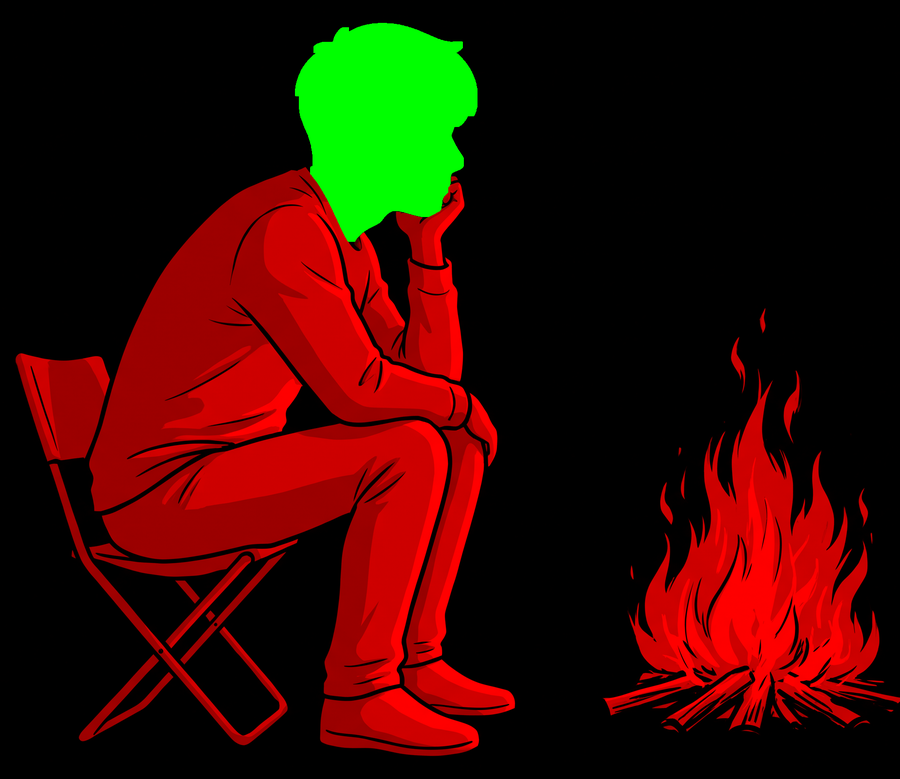
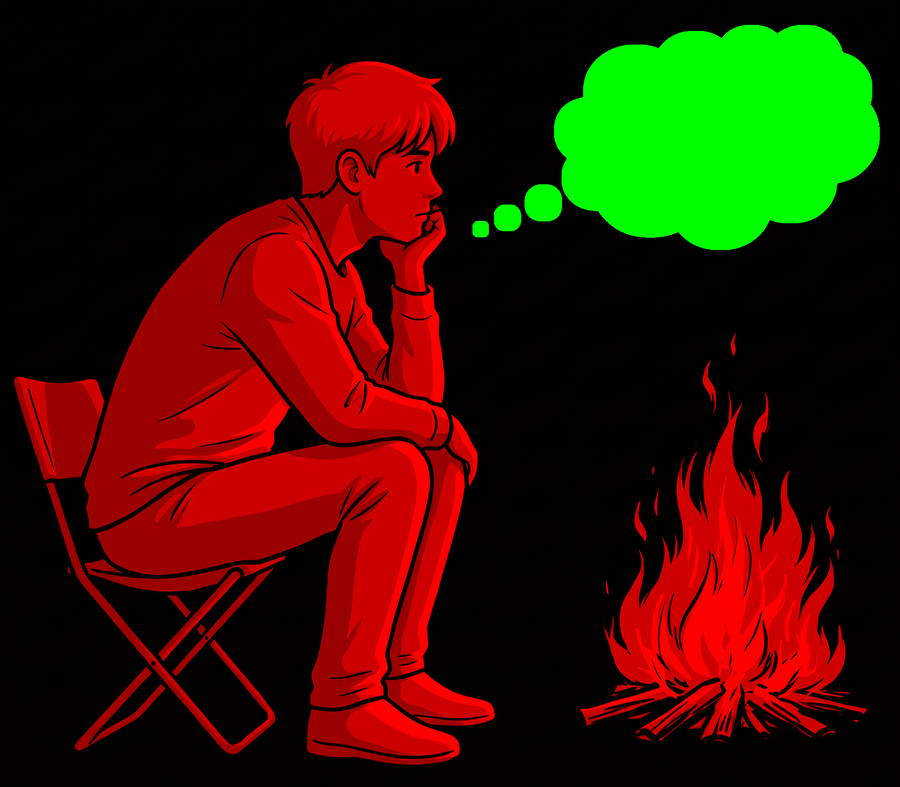
day-261117 짠하다 빼고, 멍때리다 빈 곳을 불 보며 떠오른 생각 풍선으로

diff --git a/day-261117/main.js b/day-261117/main.js
@@ -1,11 +1,10 @@
-const VER = 8;
+const VER = 10;
 const SCENES = [
   { key: 'siwon', word: '시원하다', pron: 'si·won·ha·da', pos: 'adj.', hole: '국밥 위로 오르는 뜨거운 김', en: ['cool', 'refreshing', 'relieved', 'satisfying', 'clear'], ex: '뜨거운 국물을 들이켜고, “아, 시원하다.”' },
   { key: 'jeong', word: '정', pron: 'jeong', pos: 'n.', hole: '그릇 위로 수북이 더 퍼 준 밥', en: ['affection', 'attachment', 'bond', 'warmth', 'love'], ex: '“더 먹어, 더.”' },
   { key: 'nunchi', word: '눈치', pron: 'nun·chi', pos: 'n.', hole: '상 위로 오가는 시선', en: ['tact', 'sense', 'awareness', 'social cue', 'reading the room'], ex: '말 안 해도 눈치로 알지.' },
   { key: 'dapdap', fill: true, word: '답답하다', pron: 'dap·dap·a·da', pos: 'adj.', hole: '손을 얹은 가슴', en: ['stuffy', 'frustrated', 'suffocating', 'stifled', 'heavy'], ex: '말이 안 통해서 답답해.' },
-  { key: 'jjan', word: '짠하다', pron: 'jjan·ha·da', pos: 'adj.', hole: '막차 창가에 꾸벅 떨군 머리', en: ['pitiful', 'touching', 'poignant', 'sorry for', 'heartrending'], ex: '얼마나 피곤했으면… 짠하다.' },
-  { key: 'meong', word: '멍때리다', pron: 'meong·ttae·ri·da', pos: 'v.', hole: '불 앞에 앉은 사람의 머릿속', en: ['zone out', 'space out', 'daydream', 'stare blankly', 'blank'], ex: '아무 생각 없이 불만 봤어.' },
+  { key: 'meong', word: '멍때리다', pron: 'meong·ttae·ri·da', pos: 'v.', hole: '불을 보며 떠오른 생각 풍선', en: ['zone out', 'space out', 'daydream', 'stare blankly', 'blank'], ex: '아무 생각 없이 불만 봤어.' },
 ];
 
 const cv = document.getElementById('c'), ctx = cv.getContext('2d');
@@ -41,17 +40,10 @@ const WARP = {
     const cx = m.w / 2 + (x - m.w / 2) * sq;
     return [m.hc[0] + (cx - m.hc[0]) / k, m.hc[1] + (y - m.hc[1]) / k];
   },
-  jjan: (x, y, t, w, m) => {
-    const px = m.hb.x0 + (m.hb.x1 - m.hb.x0) * .65, py = m.hb.y1, p = t % 3.6;
-    const nod = p < 2.8 ? smooth(p / 2.8) : 1 - smooth((p - 2.8) / .25);
-    const a = -.35 * nod * w, c = Math.cos(a), s = Math.sin(a), dx = x - px, dy = y - py;
-    return [px + dx * c - dy * s, py + dx * s + dy * c];
-  },
   meong: (x, y, t, w, m) => {
-    const px = (m.hb.x0 + m.hb.x1) / 2, py = m.hb.y1, a = Math.sin(t * .7) * .06 * w, c = Math.cos(a), s = Math.sin(a), dx = x - px, dy = y - py;
-    let X = px + dx * c - dy * s, Y = py + dx * s + dy * c;
-    if (x > m.w * .66 && y > m.h * .38 && y < m.h * .93) {
-      const up = clamp((m.h * .93 - y) / (m.h * .5), 0, 1);
+    let X = x, Y = y - Math.sin(t * 1.3) * 7 * w - Math.sin(t * 2.1 + x * .02) * 2 * w;
+    if (x > m.w * .63 && y > m.h * .42 && y < m.h * .95) {
+      const up = clamp((m.h * .95 - y) / (m.h * .5), 0, 1);
       X += Math.sin(y * .06 + t * 9) * 7 * up + Math.sin(y * .13 - t * 13) * 3 * up;
       Y += (Math.sin(t * 11 + x * .05) * .5 + .5) * 9 * up;
     }

diff --git a/index.html b/index.html
@@ -444,7 +444,7 @@
     <div class="card-info">
       <div class="card-tag">day 261117 · untranslatable</div>
       <div class="card-title">번역불가</div>
-      <div class="card-concept">시원하다·정·눈치·답답하다·짠하다·멍때리다의 장면을 영어 번역어로만 아스키 그림처럼 그리면, 꼭 필요한 자리만 비고 그 빈 곳은 한국어로만 채워진다</div>
+      <div class="card-concept">시원하다·정·눈치·답답하다·멍때리다의 장면을 영어 번역어로만 아스키 그림처럼 그리면, 꼭 필요한 자리만 비고 그 빈 곳은 한국어로만 채워진다</div>
       <div class="card-bottom">
         <span>2026.11.17</span>
         <span class="bookmark" aria-hidden="true"></span>

diff --git a/day-261117/index.html b/day-261117/index.html
@@ -39,6 +39,6 @@
   <p class="entry"><b id="word"></b> (<span id="pron"></span>), <i id="pos"></i> <span id="en"></span>. <span class="br">[번역 안 됨: <span id="hole"></span>.]</span></p>
   <p id="ex"></p>
 </div>
-<script type="module" src="main.js?v=8"></script>
+<script type="module" src="main.js?v=10"></script>
 </body>
 </html>
